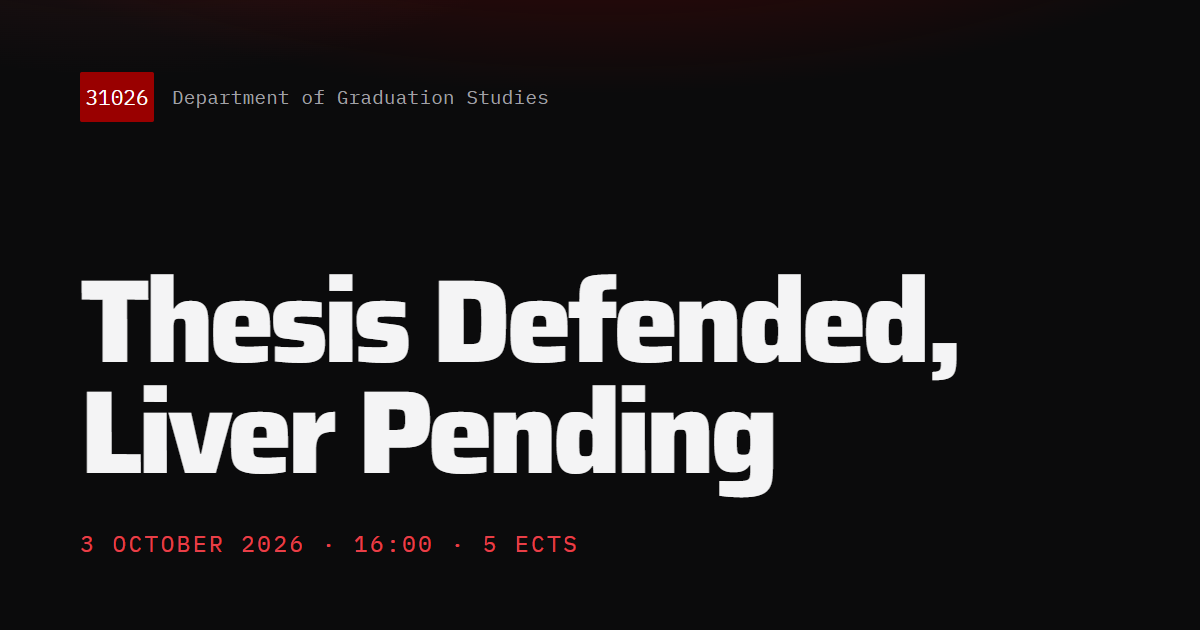
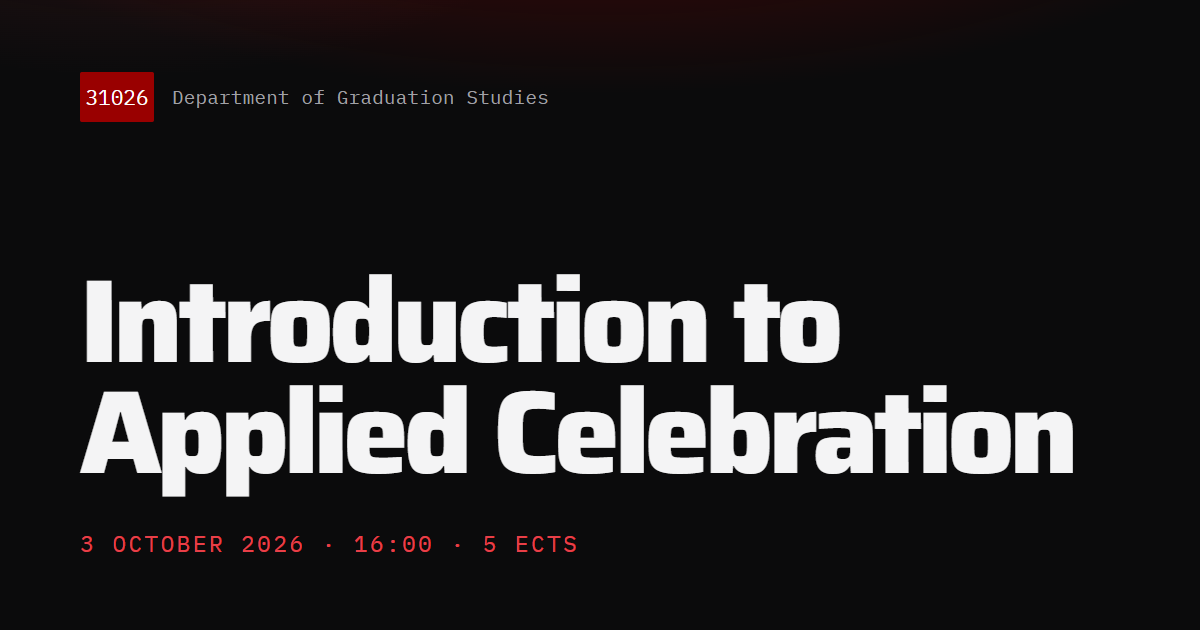
fix(meta): the link preview stops advertising the old joke
The card pasted into chats still read "Thesis Defended, Liver Pending",
a headline the site itself dropped. Regenerated it from assets/og.html
with the course title the hero actually shows, and bumped og:image so
scrapers fetch the new file instead of their cached copy.

Changed region(s): [[0.0617, 0.4222, 0.8942, 0.8143]]

diff --git a/index.html b/index.html
@@ -18,7 +18,7 @@
 <meta property="og:description" data-i18n="meta.description" data-i18n-attr="content"
       content="Course 31026, 5 ECTS. One evening minimum. Attendance is not mandatory but is strongly expected.">
 <meta property="og:url" content="https://sirsirio.github.io/thesis-defended-liver-pending/">
-<meta property="og:image" content="https://sirsirio.github.io/thesis-defended-liver-pending/assets/og-image.png">
+<meta property="og:image" content="https://sirsirio.github.io/thesis-defended-liver-pending/assets/og-image.png?v=2">
 <meta property="og:image:width" content="1200">
 <meta property="og:image:height" content="630">
 <meta name="twitter:card" content="summary_large_image">

diff --git a/assets/og.html b/assets/og.html
@@ -64,7 +64,7 @@
     <span class="badge">31026</span>
     <span class="dept">Department of Graduation Studies</span>
   </div>
-  <h1>Thesis Defended, Liver Pending</h1>
+  <h1>Introduction to Applied Celebration</h1>
   <p class="meta">3 October 2026 &middot; 16:00 &middot; 5 ECTS</p>
 </body>
 </html>
